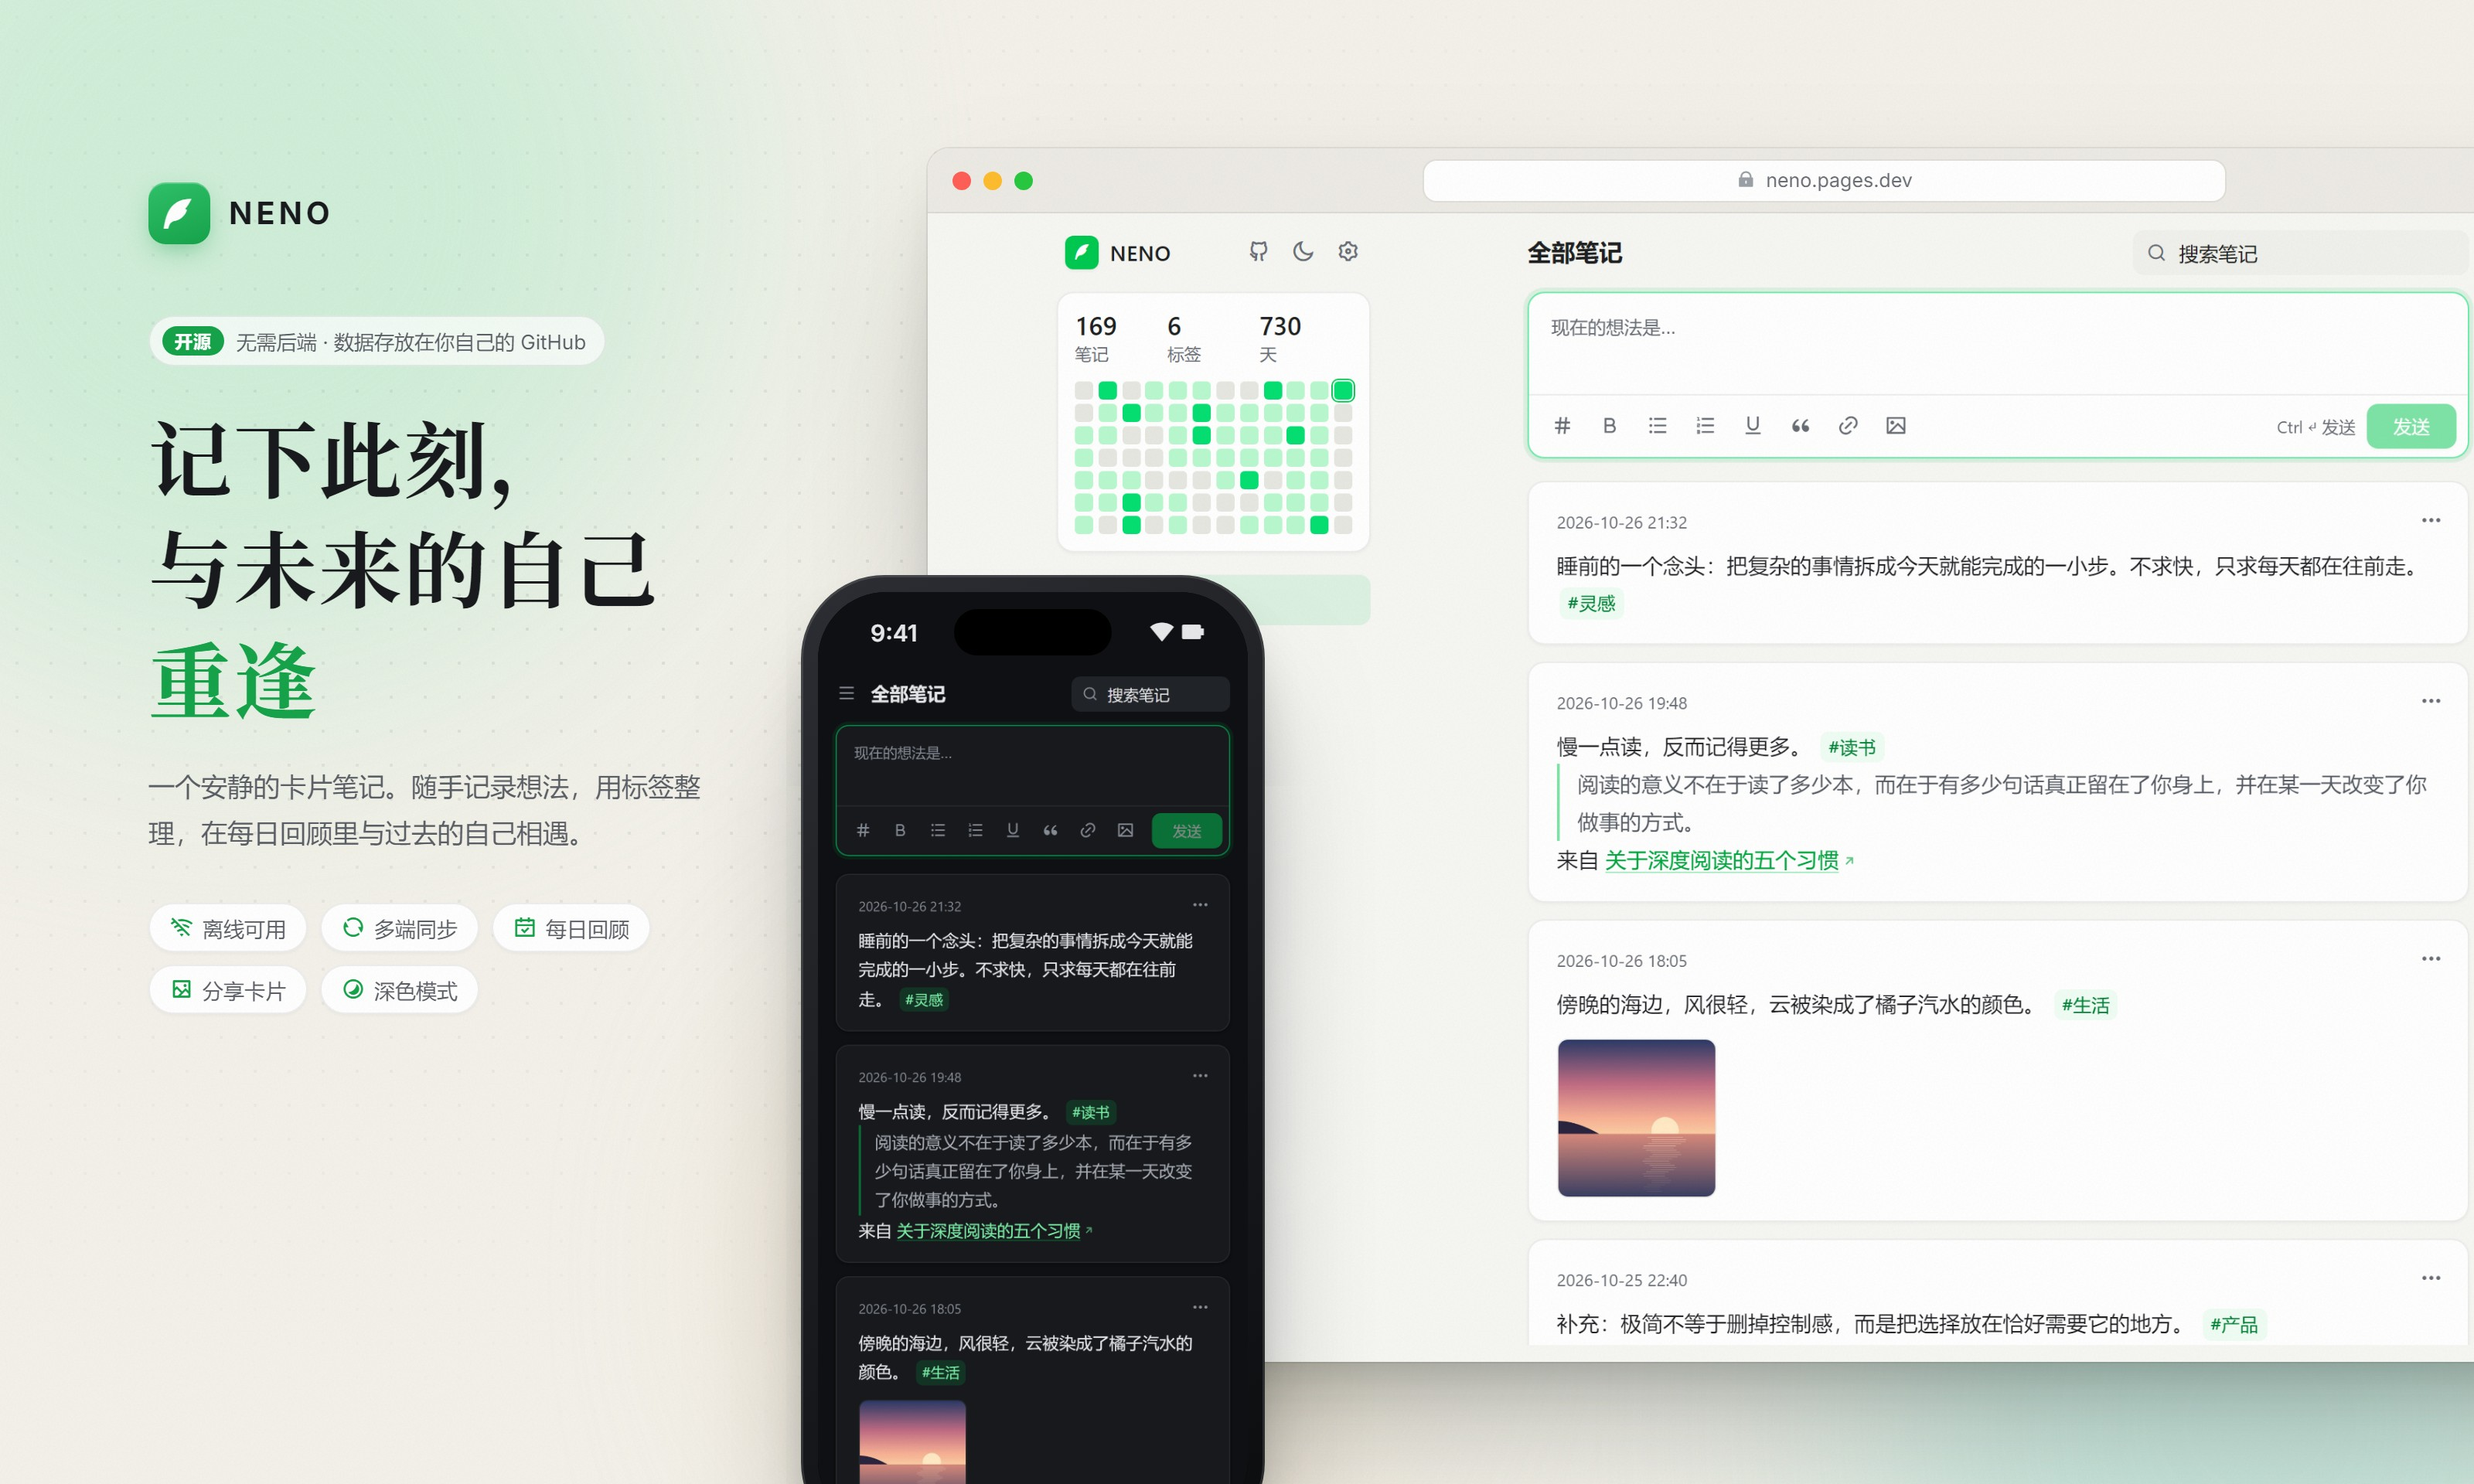
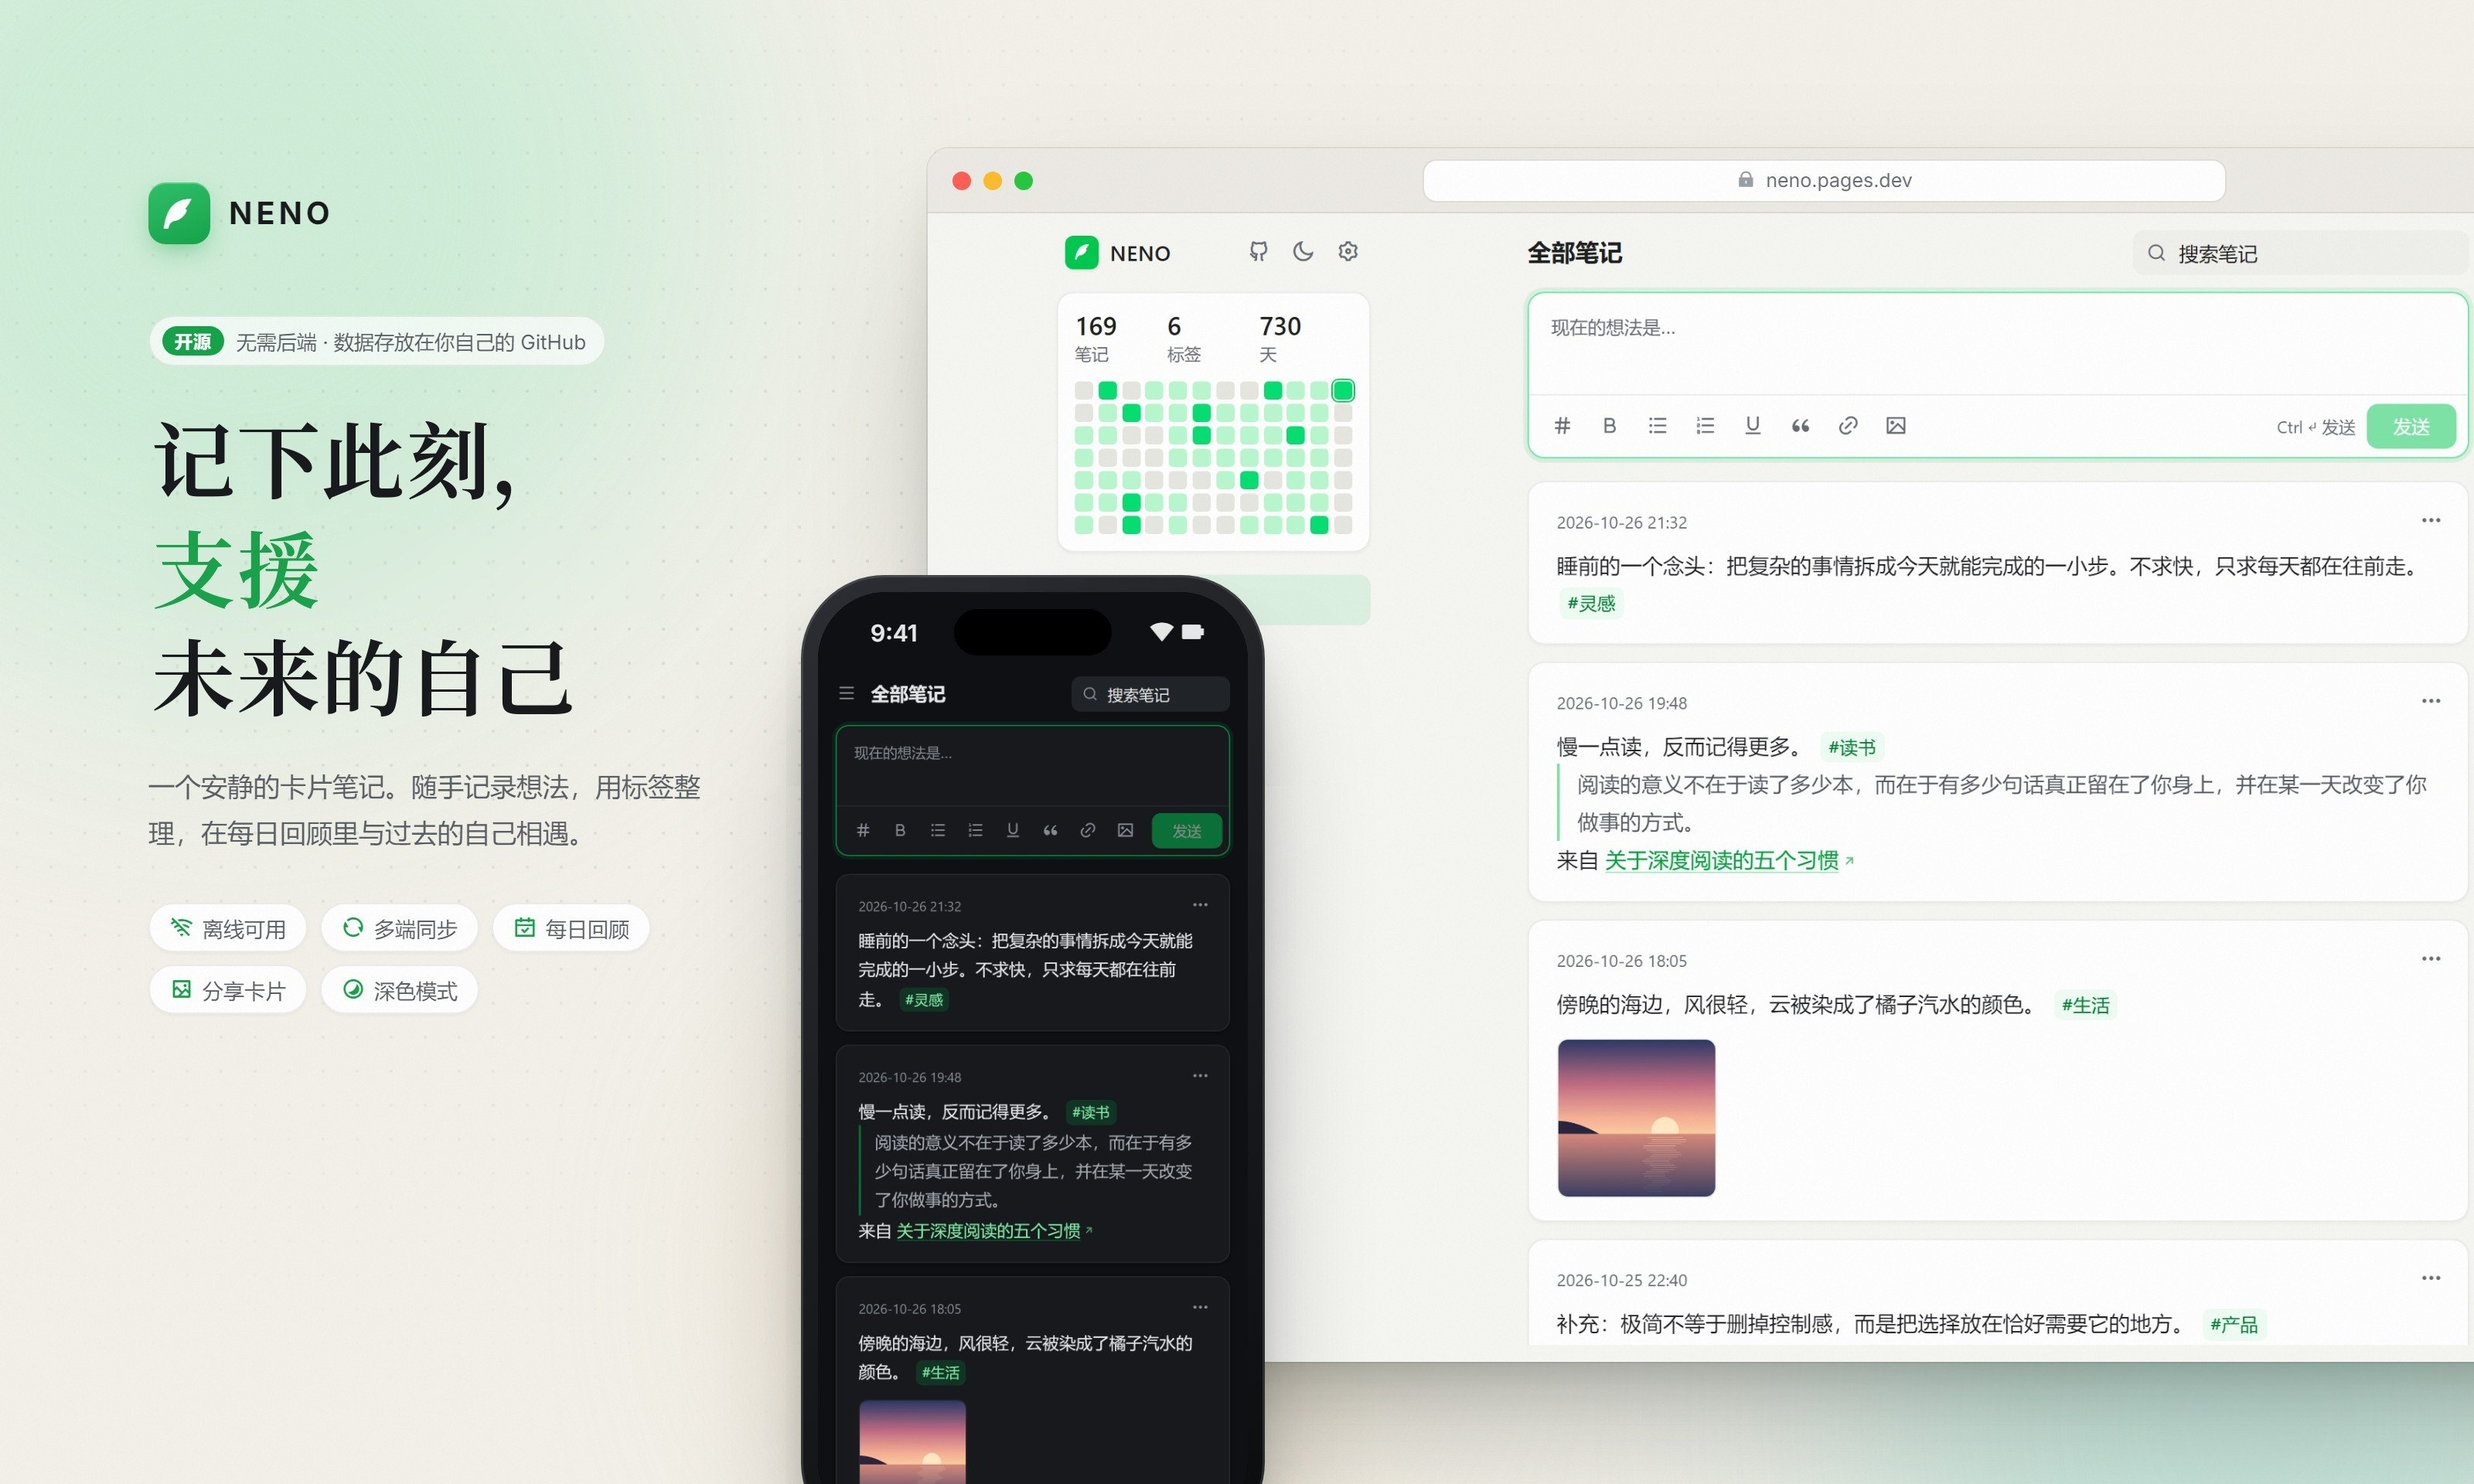
docs: new slogan "记下此刻, 支援未来的自己"
Update the README hero image headline and its alt text.

Changed region(s): [[0.0625, 0.2812, 0.2812, 0.5]]

diff --git a/README.md b/README.md
@@ -1,5 +1,5 @@
 <p align="center">
-  <img src="readmepic/hero.jpg" alt="NENO: 记下此刻, 与未来的自己重逢" />
+  <img src="readmepic/hero.jpg" alt="NENO: 记下此刻, 支援未来的自己" />
 </p>
 
 <h1 align="center">NENO</h1>
